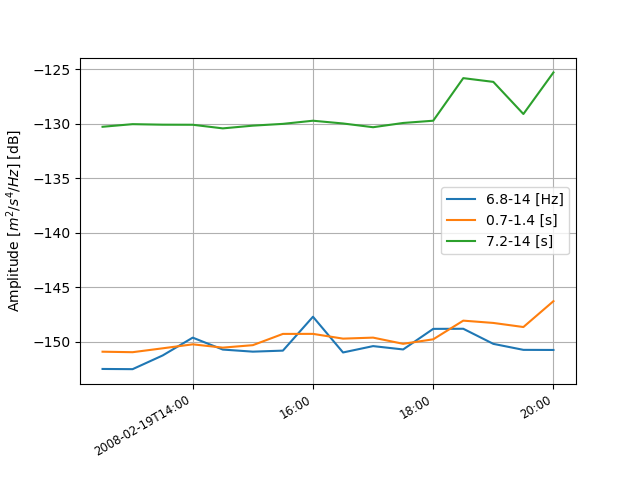
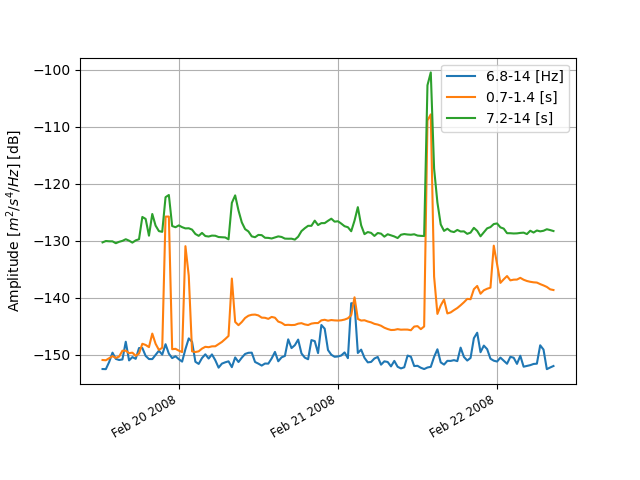
automator Tue Jul 14 13:45:06 CST 2020

diff --git a/_posts/2020-07-14-visualizing-power-spectral-density-demo-obspy.md b/_posts/2020-07-14-visualizing-power-spectral-density-demo-obspy.md
@@ -1,8 +1,8 @@
 ---
 title: "How to visualize power spectral density using Obspy [Python]"
 date: 2020-07-10
-tags: [psd, probabilistic power spectral density, obspy]
-excerpt: "Short demonstration of the ppsd class defined in Obspy"
+tags: [psd, probabilistic power spectral density, temporal plot, spectrogram ppsd, obspy]
+excerpt: "Short demonstration of the ppsd class defined in Obspy using 3 days of data for station PB-B075"
 classes:
   - wide
 ---
@@ -10,9 +10,15 @@ classes:
 <h2 id="top">Outline</h2>
 <ol>
   <li><a href="#import-libraries">Import necessary libraries</a></li>
-  <li><a href="#references">Import necessary libraries</a></li>
+  <li><a href="#download-data">Download stream using Obspy</a></li>
+  <li><a href="#add-data">Add data to the ppsd estimate</a></li>
+  <li><a href="#visualizing">Visualization using Obspy</a></li>
+  <li><a href="#references">References</a></li>
 </ol>
 
+<p align="center">
+  <img width="80%" src="{{ site.url }}{{ site.baseurl }}/images/visualizing-ppsd/PB_B075traces.png">
+</p>
 
 <h3 id="import-libraries">Import necessary libraries <a href="#top"><i class="fa fa-arrow-circle-up" aria-hidden="true"></i></a></h3>
 
@@ -24,10 +30,14 @@ from obspy import UTCDateTime, read_inventory, read
 import os, glob
 import matplotlib.pyplot as plt
 from obspy.imaging.cm import pqlx
-# import warnings
-# warnings.filterwarnings('ignore')
+import warnings
+warnings.filterwarnings('ignore')
+```
 
+<h3 id="download-data">Download stream using Obspy <a href="#top"><i class="fa fa-arrow-circle-up" aria-hidden="true"></i></a></h3>
 
+```python
+## Downloading inventory
 net = 'PB' 
 sta = 'B075' 
 loc='*'
@@ -37,10 +47,10 @@ mseedfiles = glob.glob(filename_prefix+".mseed")
 xmlfiles = glob.glob(filename_prefix+'_stations.xml')
 
 if not len(mseedfiles) or not len(xmlfiles):
-    print("--> No mseed or station xml file found, downloading...")
+    print("--> Missing mseed / station xml file, downloading...")
     time = UTCDateTime('2008-02-19T13:30:00') 
     wf_starttime = time - 60*60
-    wf_endtime = time + 8 * 60 * 60 #requires atleast 1 hour of data
+    wf_endtime = time + 3 * 24 * 60 * 60 #3 days of data (requires atleast 1 hour)
 
     client = Client('IRIS')
 
@@ -51,38 +61,57 @@ if not len(mseedfiles) or not len(xmlfiles):
 else:
     st = read(filename_prefix+".mseed")
     inventory = read_inventory(filename_prefix+'_stations.xml')
+```
 
+<h3 id="add-data">Add data to the ppsd estimate <a href="#top"><i class="fa fa-arrow-circle-up" aria-hidden="true"></i></a></h3>
+
+```python
 tr = st.select(channel="EHZ")[0]
 print(st)
+st.plot(outfile=filename_prefix+"traces.png",show=False)
 ppsd = PPSD(tr.stats, metadata=inventory)
-add_status = ppsd.add(st)
-print(add_status)
+add_status = ppsd.add(st) #add data (either trace or stream objects) to the ppsd estimate
+```
+
+<h3 id="visualizing">Visualization using Obspy <a href="#top"><i class="fa fa-arrow-circle-up" aria-hidden="true"></i></a></h3>
+
+```python
 if add_status:
     print(ppsd)
     print(ppsd.times_processed[:2]) #check what time ranges are represented in the ppsd estimate
     print("Number of psd segments:", len(ppsd.times_processed))
-    ppsd.plot(filename_prefix+"-ppsd.png",cmap=pqlx) 
+    ppsd.plot(filename_prefix+"-ppsd.png",cmap=pqlx) #colormap used by PQLX / [McNamara2004] 
     plt.close('all')
-    ppsd.plot(filename_prefix+"-ppsd_cumulative.png",cumulative=True,cmap=pqlx)
+    ppsd.plot(filename_prefix+"-ppsd_cumulative.png",cumulative=True,cmap=pqlx) #cumulative version of the histogram
     plt.close('all')
-    ppsd.plot_temporal(period=[0.1, 1, 10], filename=filename_prefix+"-ppsd_temporal_plot.png")
+    ppsd.plot_temporal(period=[0.1, 1.0, 10], filename=filename_prefix+"-ppsd_temporal_plot.png") #The central period closest to the specified period is selected
     plt.close('all')
+    ppsd.plot_spectrogram(filename=filename_prefix+"-spectrogram.png", show=False)
+
 ```
 
 <p align="center">
   <img width="80%" src="{{ site.url }}{{ site.baseurl }}/images/visualizing-ppsd/PB_B075-ppsd.png">
+  <figcaption>Probabilistic Power Spectral Densities with colormap used by [McNamara2004] </figcaption>
 </p>
 
 <p align="center">
   <img width="80%" src="{{ site.url }}{{ site.baseurl }}/images/visualizing-ppsd/PB_B075-ppsd_cumulative.png">
+  <figcaption>Cumulative version of the histogram </figcaption>
 </p>
 
 <p align="center">
   <img width="80%" src="{{ site.url }}{{ site.baseurl }}/images/visualizing-ppsd/PB_B075-ppsd_temporal_plot.png">
+  <figcaption>Plot the evolution of PSD value of one (or more) period bins over time. </figcaption>
+</p>
+
+<p align="center">
+  <img width="80%" src="{{ site.url }}{{ site.baseurl }}/images/visualizing-ppsd/PB_B075-spectrogram.png">
+  <figcaption>Spectrogram of the estimate </figcaption>
 </p>
 
 <h3 id="references">References <a href="#top"><i class="fa fa-arrow-circle-up" aria-hidden="true"></i></a></h3>
 <ol>
-  <li>McNamara, D. E., & Boaz, R. I. (2006). Seismic noise analysis system using power spectral density probability density functions: A stand-alone software package. Citeseer.</li>
   <li>McNamara, D. E., & Buland, R. P. (2004). Ambient Noise Levels in the Continental United States. Bulletin of the Seismological Society of America, 94(4), 1517–1527.</li>
+  <li>McNamara, D. E., & Boaz, R. I. (2006). Seismic noise analysis system using power spectral density probability density functions: A stand-alone software package. Citeseer.</li>
 </ol>
